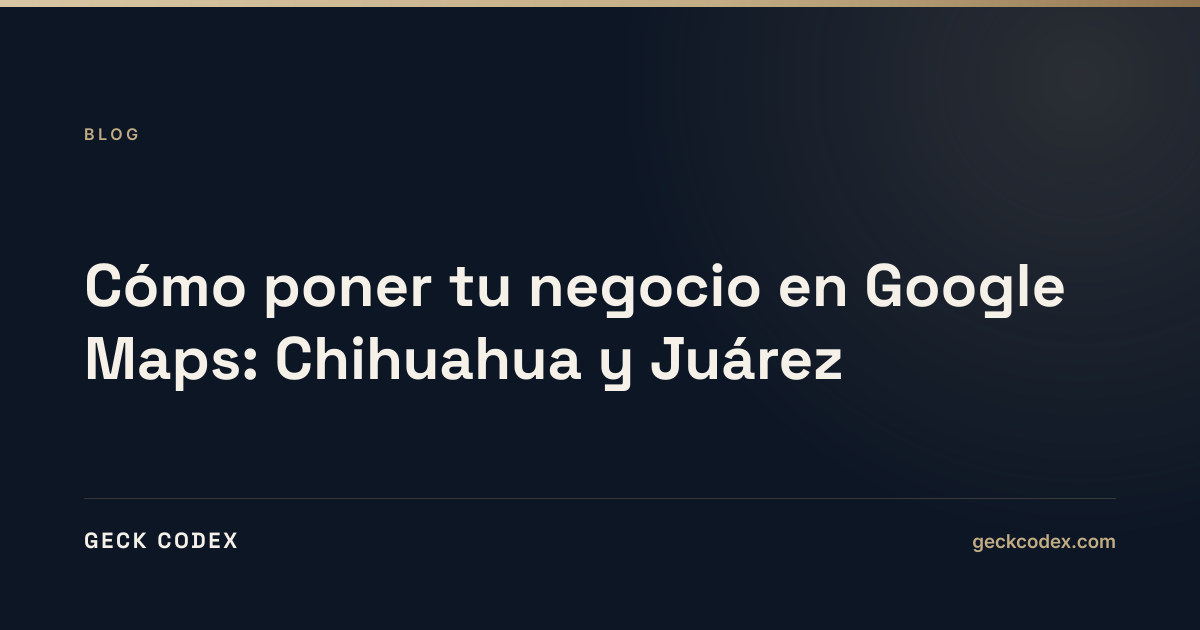
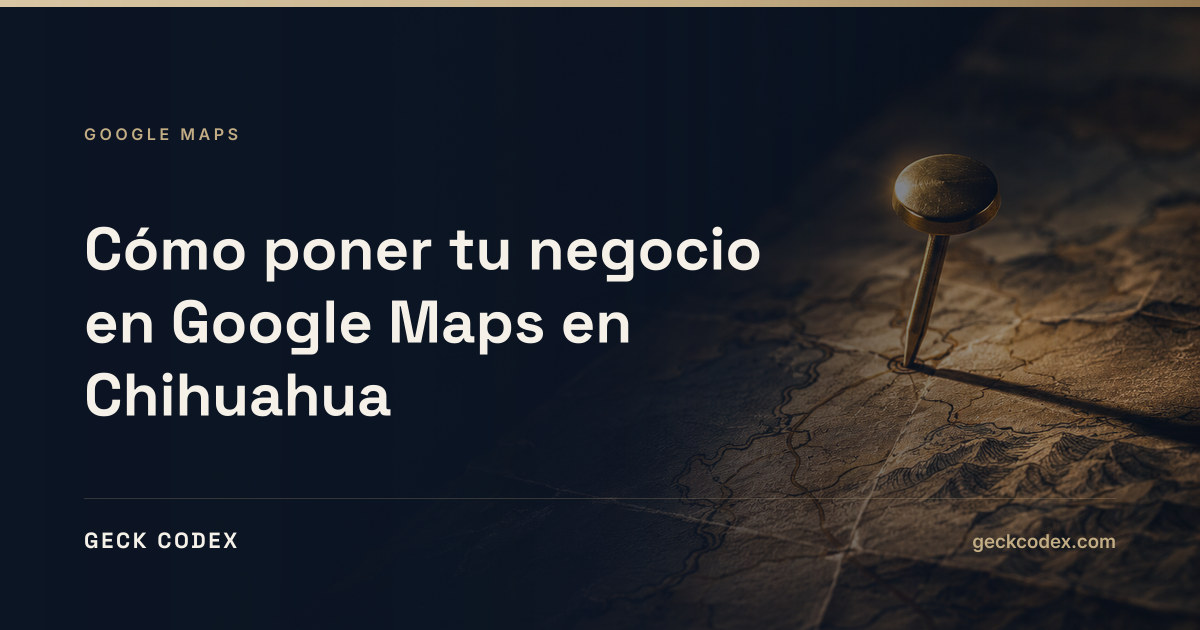
blog: Google Maps sube de dos ciudades a todo el estado, y su portada
EL ALCANCE. El articulo nacio como "Chihuahua y Juarez" y se quedaba
corto: el tramite de Google Maps es identico en todo Mexico, asi que
encerrarlo en dos ciudades desperdiciaba la mitad del estado sin ganar
nada a cambio. Ahora el titulo es de estado —"en Chihuahua"— y la seccion
geografica cubre los tres escenarios reales:

  - La capital, donde las categorias del centro estan saturadas y se gana
    por perfil, no por cercania.
  - Juarez, con el ingles de quien busca desde El Paso y los horarios de
    turno de maquila.
  - Delicias, Cuauhtemoc, Parral, Camargo y Nuevo Casas Grandes, que es
    el bloque nuevo y el que no escribe nadie: categorias con tres o
    cuatro fichas, la mitad sin verificar y con fotos de hace años. Es el
    unico escenario del estado donde el mapa, solo, todavia alcanza.

Hasta ahi llega la generalizacion. Subirlo a "Mexico" lo mete a competir
con medios nacionales y tira el ancla local, que es la razon de ser del
blog y la leccion que costo ver al articulo 2 caer a la posicion 65.

El slug NO cambia —ya era `...-chihuahua`— asi que no hace falta 301.

LA PORTADA. Una chincheta de laton clavada en un mapa de papel viejo, con
los dos tercios de la izquierda en sombra para que el titulo caiga encima
sin taparla. La imagen va SIN texto a proposito: las letras las encima
`generate-blog-cover.mjs` con las fuentes de la marca, porque los modelos
escriben mal los acentos.

diff --git a/src/content/blog/como-poner-tu-negocio-en-google-maps-chihuahua.md b/src/content/blog/como-poner-tu-negocio-en-google-maps-chihuahua.md
@@ -1,6 +1,6 @@
 ---
-title: "Cómo poner tu negocio en Google Maps: Chihuahua y Juárez"
-description: "Guía real para registrar y verificar tu negocio en Google Maps, con lo que nadie te avisa: por qué rechazan las fichas y qué cambia si estás en Juárez."
+title: "Cómo poner tu negocio en Google Maps en Chihuahua"
+description: "Guía real para registrar y verificar tu negocio en Google Maps, con lo que nadie te avisa: por qué rechazan fichas y dónde del estado sí se gana."
 date: 2026-10-03
 author: Geck Codex
 tags:
@@ -8,7 +8,7 @@ tags:
   - SEO local
   - Chihuahua
 cover: /assets/image/blog/como-poner-tu-negocio-en-google-maps-chihuahua.jpg
-coverAlt: "Portada del artículo: Cómo poner tu negocio en Google Maps en Chihuahua y Juárez"
+coverAlt: "Portada del artículo: Cómo poner tu negocio en Google Maps en Chihuahua"
 draft: false
 ---
 
@@ -131,28 +131,44 @@ para alguien que busca desde el otro lado de la ciudad, porque hay otro
 negocio igual de bueno más cerca de él. Es el único factor sobre el que no
 puedes hacer nada, y por eso el mapa no es una estrategia completa para nadie.
 
-## Qué cambia entre Chihuahua capital y Juárez
+## Qué cambia según dónde estés en el estado
 
-**En la capital** la pelea es por categorías saturadas en el centro y en el
-corredor de la Teófilo Borunda. Si tu negocio está ahí, tu ventaja no va a
+El trámite es idéntico en Chihuahua, en Juárez, en Delicias o en cualquier otro
+lado de México. Lo que cambia es **qué tan peleada está tu categoría donde
+estás**, y eso es lo que decide si el mapa te va a servir de mucho o de poco.
+
+**En Chihuahua capital** la pelea está en las categorías saturadas del centro y
+del corredor de la Teófilo Borunda. Si tu negocio está ahí, tu ventaja no va a
 ser la cercanía —todos la tienen— sino el perfil mejor armado: categoría
-específica, fotos reales y recientes, reseñas contestadas.
+específica en vez de genérica, fotos reales y recientes, reseñas contestadas.
 
-**En Juárez** hay dos cosas que no pasan en ningún otro lado del estado:
+**En Juárez** hay dos cosas que no pasan en ningún otro lado del estado.
 
 La primera es que **una parte de quien te busca lo hace en inglés**, desde El
-Paso o desde un celular configurado en inglés. Tu ficha puede llevar
-descripción en los dos idiomas, y vale la pena si tu cliente cruza. Es la misma
-lógica que explicamos en el artículo de
+Paso o desde un celular configurado en inglés. Tu ficha puede llevar descripción
+en los dos idiomas, y vale la pena si tu cliente cruza. Es la misma lógica que
+explicamos en el artículo de
 [páginas web bilingües en la frontera](/blog/pagina-web-bilingue-para-negocios-en-la-frontera/):
 no es traducir por traducir, es decidir a quién le hablas.
 
 La segunda es el **horario**. En una ciudad donde se trabaja por turnos de
 maquila, un negocio que abre a las 6 de la mañana o que cierra a las 11 de la
 noche tiene una ventaja real, y la ficha es donde se anuncia. Google muestra
-"Abierto ahora" y filtra por eso. Si tus horarios de verdad son amplios,
-ponlos; si no, no los infles, porque un cliente que llega a puerta cerrada
-deja una reseña de una estrella que te va a costar meses.
+"Abierto ahora" y filtra por eso. Si tus horarios de verdad son amplios, ponlos;
+si no, no los infles, porque un cliente que llega a puerta cerrada deja una
+reseña de una estrella que te va a costar meses.
+
+**En Delicias, Cuauhtémoc, Parral, Camargo o Nuevo Casas Grandes** pasa justo lo
+contrario que en la capital, y casi nadie lo está aprovechando. Hay categorías
+enteras con tres o cuatro fichas, la mitad sin verificar, con fotos de hace años
+y sin una sola reseña contestada. En una ciudad así no necesitas ganarle a nadie
+con maña: te basta con ser el único que hizo el trabajo bien. Es el único
+escenario del estado donde el mapa, **solo**, todavía alcanza para llenarte la
+agenda.
+
+> **Cómo comprobarlo:** busca tu categoría más tu ciudad y cuenta cuántas de las
+> fichas que salen tienen fotos de este año y reseñas contestadas. Si son menos
+> de la mitad, ahí está tu hueco y se cierra rápido.
 
 ## Lo que Google Maps no te va a resolver
 
@@ -176,8 +192,8 @@ Y si todavía estás viendo cuánto deberías invertir, los rangos reales del
 estado están en
 [cuánto cuesta una página web en Chihuahua](/blog/cuanto-cuesta-una-pagina-web-en-chihuahua/).
 
-> **Cómo comprobarlo:** busca en Google tu categoría más la ciudad —"taller
-> mecánico Chihuahua"— desde una ventana de incógnito. Si no sales ni en el
+> **Cómo comprobarlo:** busca en Google tu categoría más tu ciudad —"taller
+> mecánico Delicias"— desde una ventana de incógnito. Si no sales ni en el
 > mapa ni en los primeros resultados azules, te faltan las dos piezas, no una.
 
 ## Si prefieres que lo hagamos nosotros

diff --git a/docs/plan-editorial-blog.md b/docs/plan-editorial-blog.md
@@ -188,8 +188,16 @@ orden de publicación salta del 5 al 10.
   (2026-10-03). La guía completa es gratis y se dice de frente que una agencia
   cobra $2,000–$5,000 por el mismo trámite. Lleva la verificación por video
   —que es la que se usa hoy en México— y el negocio con área de servicio para
-  quien trabaja desde su casa. La sección de Juárez va por el inglés de El Paso
-  y por los horarios de turno de maquila. El cierre es la concesión más honesta
+  quien trabaja desde su casa.
+- **Ancla de ESTADO, no de ciudad.** Arrancó como "Chihuahua y Juárez" y se
+  generalizó: el trámite es idéntico en todo México, así que encerrarlo en dos
+  ciudades desperdiciaba la mitad del estado. La sección geográfica cubre ahora
+  los tres escenarios reales: la capital (categorías saturadas), Juárez (el
+  inglés de El Paso y los horarios de maquila) y **las ciudades medianas
+  —Delicias, Cuauhtémoc, Parral, Camargo, Nuevo Casas Grandes— donde el mapa
+  todavía se gana solo**, que es el dato que no escribe nadie. Hasta ahí llega
+  la generalización: subirlo a "México" lo mete a competir con medios
+  nacionales y tira el ancla que es la razón de ser del blog. El cierre es la concesión más honesta
   del blog hasta ahora: **nosotros no aparecemos en el mapa de Juárez y no lo
   vamos a simular**, que es exactamente el argumento de la estrategia de arriba.
   Enlaza a los artículos 1, 2 y 3, y a `/servicios/`.
